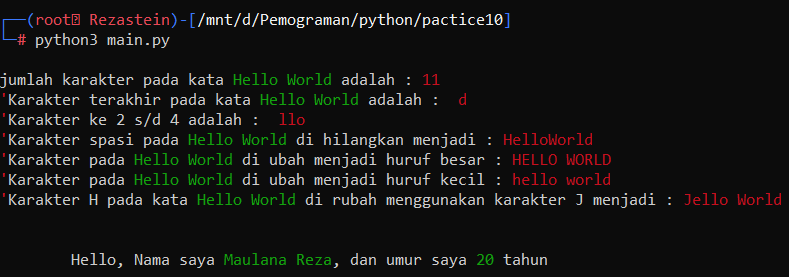
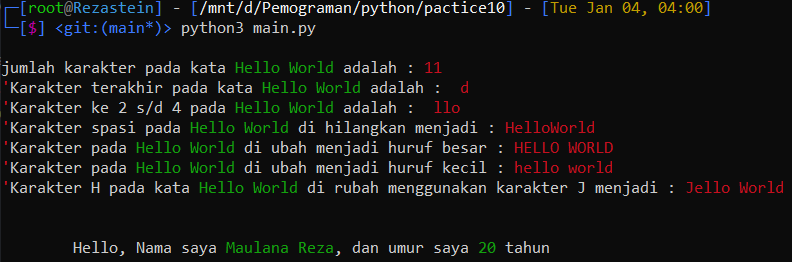
first commit

Changed region(s): [[0.0, 0.2137, 1.0, 0.7634], [0.0, 0.0, 0.9125, 0.1832], [0.0913, 0.916, 0.6996, 0.9771]]

diff --git a/main.py b/main.py
@@ -2,7 +2,7 @@
 txt = 'Hello World'
 print("\njumlah karakter pada kata \33[32m{}\33[37m adalah :\33[31m".format(txt), len(txt))
 print("'\33[37mKarakter terakhir pada kata \33[32m{}\33[37m adalah : \33[31m".format(txt),txt[10])
-print("'\33[37mKarakter ke 2 s/d 4 adalah : \33[31m", txt[2:5])
+print("'\33[37mKarakter ke 2 s/d 4 pada \33[32m{}\33[37m adalah : \33[31m".format(txt), txt[2:5])
 print("'\33[37mKarakter spasi pada \33[32m{}\33[37m di hilangkan menjadi :\33[31m".format(txt), txt.replace(txt[5], ""))
 print("'\33[37mKarakter pada \33[32m{}\33[37m di ubah menjadi huruf besar :\33[31m".format(txt), txt.upper())
 print("'\33[37mKarakter pada \33[32m{}\33[37m di ubah menjadi huruf kecil :\33[31m".format(txt), txt.lower())

diff --git a/README.md b/README.md
@@ -56,6 +56,7 @@ print(txt[2:5])
 ```
 
 **4. Bagaimana cara menghilangkan spasi pada string ?**
+<br>
 cara menghilangkan spasi pada string yaitu menggunakan method **replace()**
 <br>
 contoh:
@@ -69,6 +70,7 @@ methode **replace()** mengganti semua kemunculan string lama dengan yang baru at
 <br>
 <br>
 **5.Bagaimana cara menguah string menjadi huruf besar atau hurup kecil ?**
+<br>
 cara merubah hurup besar/kecil pada string yaitu menggunakan methode:
 
 - **upper()** untuk memperbesar
